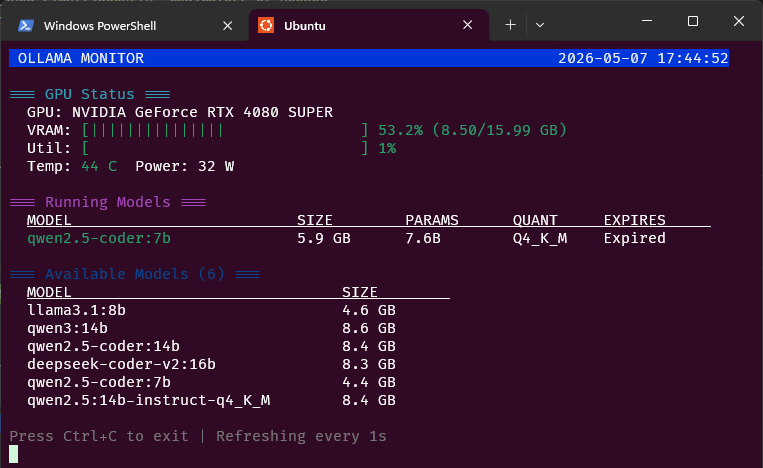
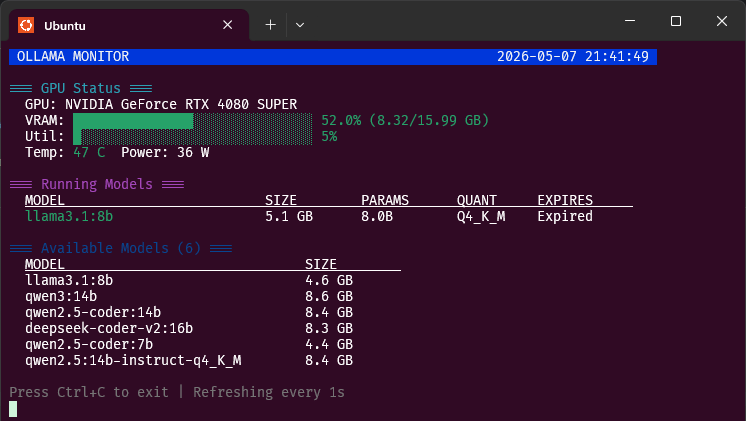
feat(docs): update changelog for v1.1.1, enhance compilation guides for Linux and Windows

diff --git a/docs/howto/windows-compilation-powershell.md b/docs/howto/windows-compilation-powershell.md
@@ -1,0 +1,81 @@
+# Windows Compilation using Powershell (MSVC + CMake)
+
+## 1. Install dependencies from PowerShell (Admin)
+
+Run these commands in an elevated PowerShell window:
+
+```powershell
+# Visual Studio Build Tools + required C++ components
+winget install --id Microsoft.VisualStudio.2022.BuildTools -e --override "--wait --passive --add Microsoft.VisualStudio.Workload.VCTools --add Microsoft.VisualStudio.Component.VC.Tools.x86.x64 --add Microsoft.VisualStudio.Component.Windows11SDK.22621 --includeRecommended"
+
+# CMake
+winget install --id Kitware.CMake -e
+
+# Optional: Ninja generator
+winget install --id Ninja-build.Ninja -e
+```
+
+> Reference Screenshot
+>
+>![Screenshot](/docs/img/screenshot-visualstudio-installer.png)
+
+
+## 2. Open a PowerShell session with MSVC tools loaded
+
+Use `vswhere` to locate the install path and load the VS developer shell:
+
+```powershell
+$vsPath = & "${env:ProgramFiles(x86)}\Microsoft Visual Studio\Installer\vswhere.exe" -latest -products * -requires Microsoft.VisualStudio.Component.VC.Tools.x86.x64 -property installationPath
+
+# Print the path to confirm:
+$vsPath
+
+# Load ps1 file
+& "$vsPath\Common7\Tools\Launch-VsDevShell.ps1" -Arch amd64 -HostArch amd64
+```
+
+If `Launch-VsDevShell.ps1` is missing or fails, review [Troubleshooting](#troubleshooting) or use fallback:
+
+```powershell
+cmd /k """$vsPath\Common7\Tools\VsDevCmd.bat"" -arch=amd64 -host_arch=amd64"
+```
+
+
+## 3. Verify toolchain
+
+```powershell
+where.exe cl
+where.exe nmake
+cmake --version
+```
+
+> If `where.exe nmake` returns nothing, your VS C++ components are not installed correctly.
+
+
+## 4. Configure and Build with NMake
+
+From the project root:
+
+```powershell
+cmake -S . -B build -G "NMake Makefiles"
+cmake --build build
+```
+
+
+## Optional: Build with Ninja instead of NMake
+
+```powershell
+cmake -S . -B build -G Ninja
+cmake --build build
+```
+
+> **Note:** Ninja still needs MSVC (`cl.exe`) unless you are using a different compiler toolchain.
+
+
+## Troubleshooting
+
+- Running scripts is disabled on this system:
+
+  ```powershell
+  Set-ExecutionPolicy -ExecutionPolicy RemoteSigned -Scope CurrentUser
+  ```

diff --git a/docs/howto/linux-compilation.md b/docs/howto/linux-compilation.md
@@ -1,0 +1,63 @@
+# Linux / WSL2 Compilation (GCC + CMake)
+
+## 1. Install dependencies
+
+Run these commands in your Linux shell (Ubuntu / WSL2):
+
+```bash
+sudo apt update
+sudo apt install -y build-essential cmake libcurl4-openssl-dev
+```
+
+
+## 2. Verify toolchain
+
+```bash
+gcc --version
+g++ --version
+cmake --version
+```
+
+> If `cmake` or `g++` is not found, re-run step 1 and confirm package installation completed successfully.
+
+
+## 3. Get the source code
+
+```bash
+git clone https://github.com/palmaguer/ollama-monitor.git
+cd ollama-monitor
+```
+
+
+## 4. Configure and Build
+
+From the project root:
+
+```bash
+cmake -S . -B build -DCMAKE_BUILD_TYPE=Release
+cmake --build build
+```
+
+
+## 5. Run the binary
+
+```bash
+./build/ollama-monitor
+```
+
+> Output: `build/ollama-monitor`
+
+
+## Troubleshooting
+
+- Missing `libcurl` at configure/build time:
+
+  ```bash
+  sudo apt install -y libcurl4-openssl-dev
+  ```
+
+- Permission denied when running binary:
+
+  ```bash
+  chmod +x ./build/ollama-monitor
+  ```

diff --git a/README.md b/README.md
@@ -20,6 +20,9 @@ temperature, power), running models, and available models across **Windows** and
 
 ---
 
+## What's New in v1.1.1
+- **UTF-8 Progress Bars** - Replaced `|` pipe characters with Unicode block chars (`█`/`░`) for cleaner output.
+
 ## What's New in v1.1.0
 
 - **Linux/WSL2 Support** — Full cross-platform support. Now runs natively on **Ubuntu**, **Debian**, and 
@@ -112,27 +115,16 @@ installed and running, **build-essential**, **cmake**, **libcurl4-openssl-dev** 
 ### Build Steps
 
 **Windows:**
-```powershell
-git clone https://github.com/palmaguer/ollama-monitor.git
-cd ollama-monitor
-cmake -B build
-cmake --build build --config Release
-# Output: build/Release/ollama-monitor.exe
-```
+
+See the dedicated PowerShell guide:
+
+ - [Windows Compilation using Powershell](./docs/howto/windows-compilation-powershell.md)
 
 **Linux / WSL2:**
-```bash
-sudo apt install build-essential cmake libcurl4-openssl-dev
 
-git clone https://github.com/palmaguer/ollama-monitor.git
+See the dedicated Linux guide:
 
-cd ollama-monitor
-
-cmake -B build -DCMAKE_BUILD_TYPE=Release
-cmake --build build
-
-# Output: build/ollama-monitor
-```
+ - [Linux / WSL2 Compilation](./docs/howto/linux-compilation.md)
 
 ---
 
@@ -158,30 +150,26 @@ cmake --build build
 ### Example Output
 
 ```
- OLLAMA MONITOR                                              2026-01-09 19:36:07
+ OLLAMA MONITOR                                              2026-05-07 22:35:50
 
 === GPU Status ===
-  GPU 0: NVIDIA GeForce RTX 5090
-  VRAM: [||||||                        ] 25.3% (4.03/15.93 GB)
-  Util: [||||||||||||                  ] 42%
-  Temp: 62 C  Power: 145 W
-
   GPU: NVIDIA GeForce RTX 4080 SUPER
-  VRAM: [||||||||||||||||||||||||      ] 82.5% (13.19/15.99 GB)
-  Util: [||||                          ] 16%
-  Temp: 36 C  Power: 32 W
+  VRAM: ████████████████████████░░░░░░ 82.6% (13.21/15.99 GB)
+  Util: █░░░░░░░░░░░░░░░░░░░░░░░░░░░░░ 4%
+  Temp: 42 C  Power: 31 W
 
 === Running Models ===
   MODEL                         SIZE        PARAMS      QUANT     EXPIRES
-  llama3:8b                     4.7 GB      8B          Q4_K_M    4m 32s
+  qwen2.5-coder:14b             17.2 GB     14.8B       Q4_K_M    Expired
 
-=== Available Models (5) ===
+=== Available Models (6) ===
   MODEL                              SIZE
-  devstral-small-2:latest            14.1 GB
-  nomic-embed-text-v2-moe:latest     913.3 MB
-  ministral-3:14b-instruct-2512-q... 8.5 GB
-  qwen3-vl:30b-a3b-instruct-q4_K_M   18.2 GB
-  nomic-embed-text:latest            261.6 MB
+  llama3.1:8b                        4.6 GB
+  qwen3:14b                          8.6 GB
+  qwen2.5-coder:14b                  8.4 GB
+  deepseek-coder-v2:16b              8.3 GB
+  qwen2.5-coder:7b                   4.4 GB
+  qwen2.5:14b-instruct-q4_K_M        8.4 GB
 
 Press Ctrl+C to exit | Refreshing every 1s
 ```

diff --git a/CHANGELOG.md b/CHANGELOG.md
@@ -5,10 +5,11 @@ All notable changes to this project will be documented in this file.
 The format is based on [Keep a Changelog](https://keepachangelog.com/en/1.1.0/),
 and this project adheres to [Semantic Versioning](https://semver.org/spec/v2.0.0.html).
 
-## [Unreleased]
+## [v1.1.1] - 2026-05-07
 
 ### Changed
 - **UTF-8 Progress Bars** - Replaced `|` pipe characters with Unicode block chars (`█`/`░`) for cleaner output
+- **Documentation Enhancement** - Updated documentation with detailed compilation guides. 
 
 ## [v1.1.0] - 2026-05-07
 